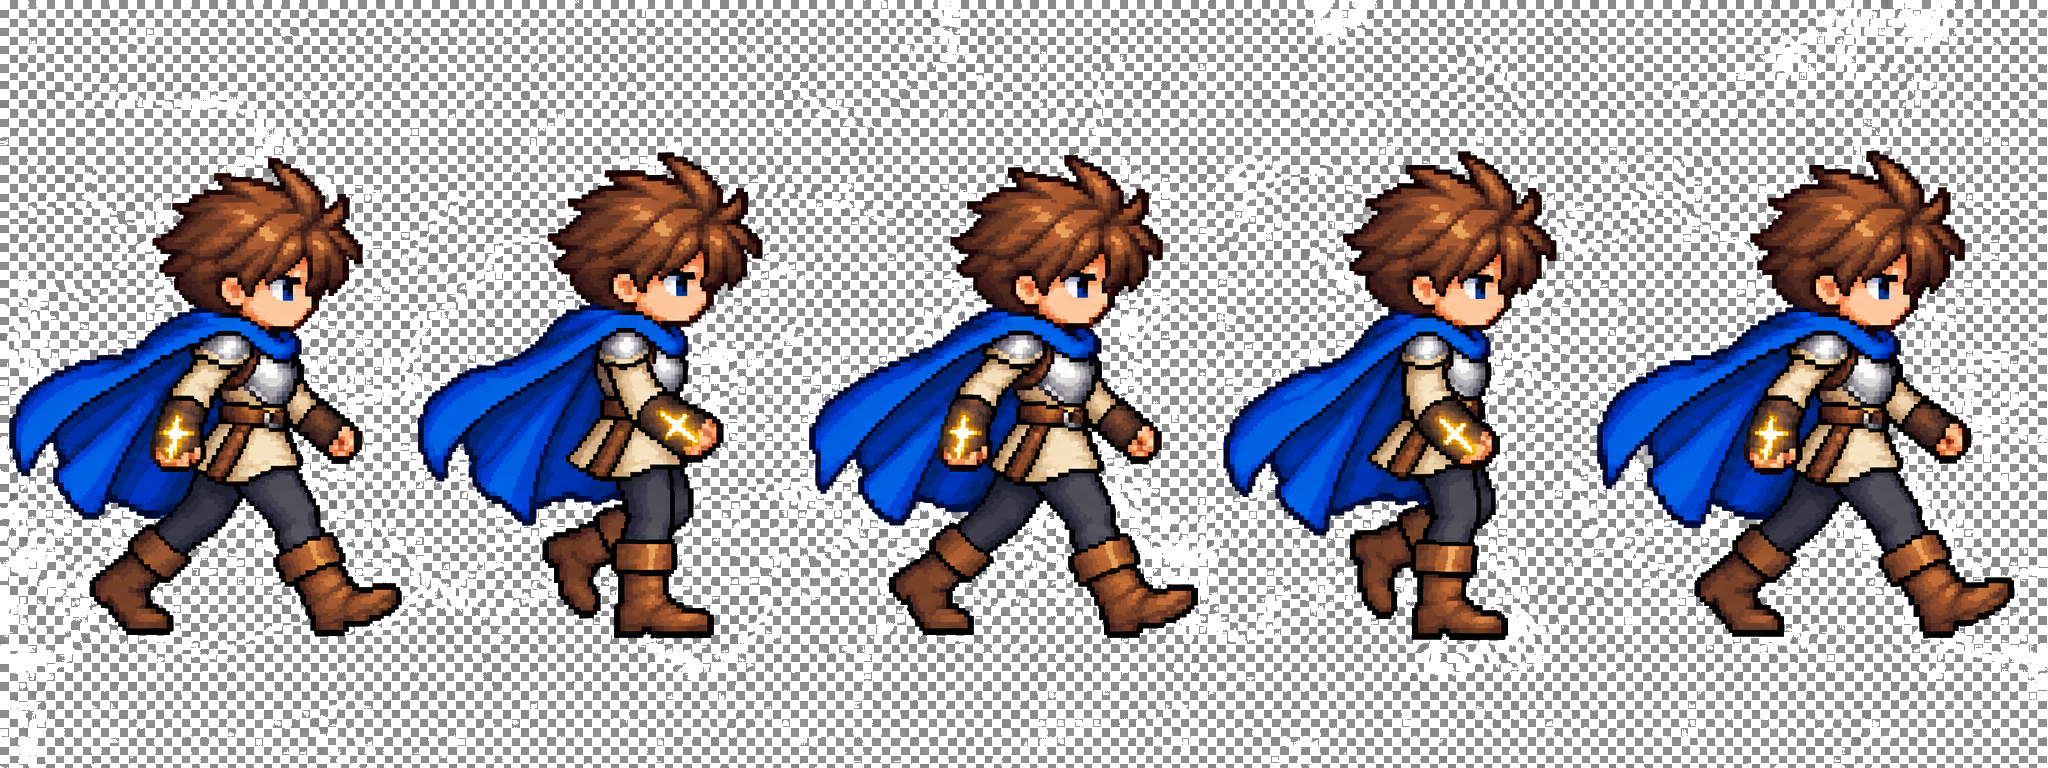
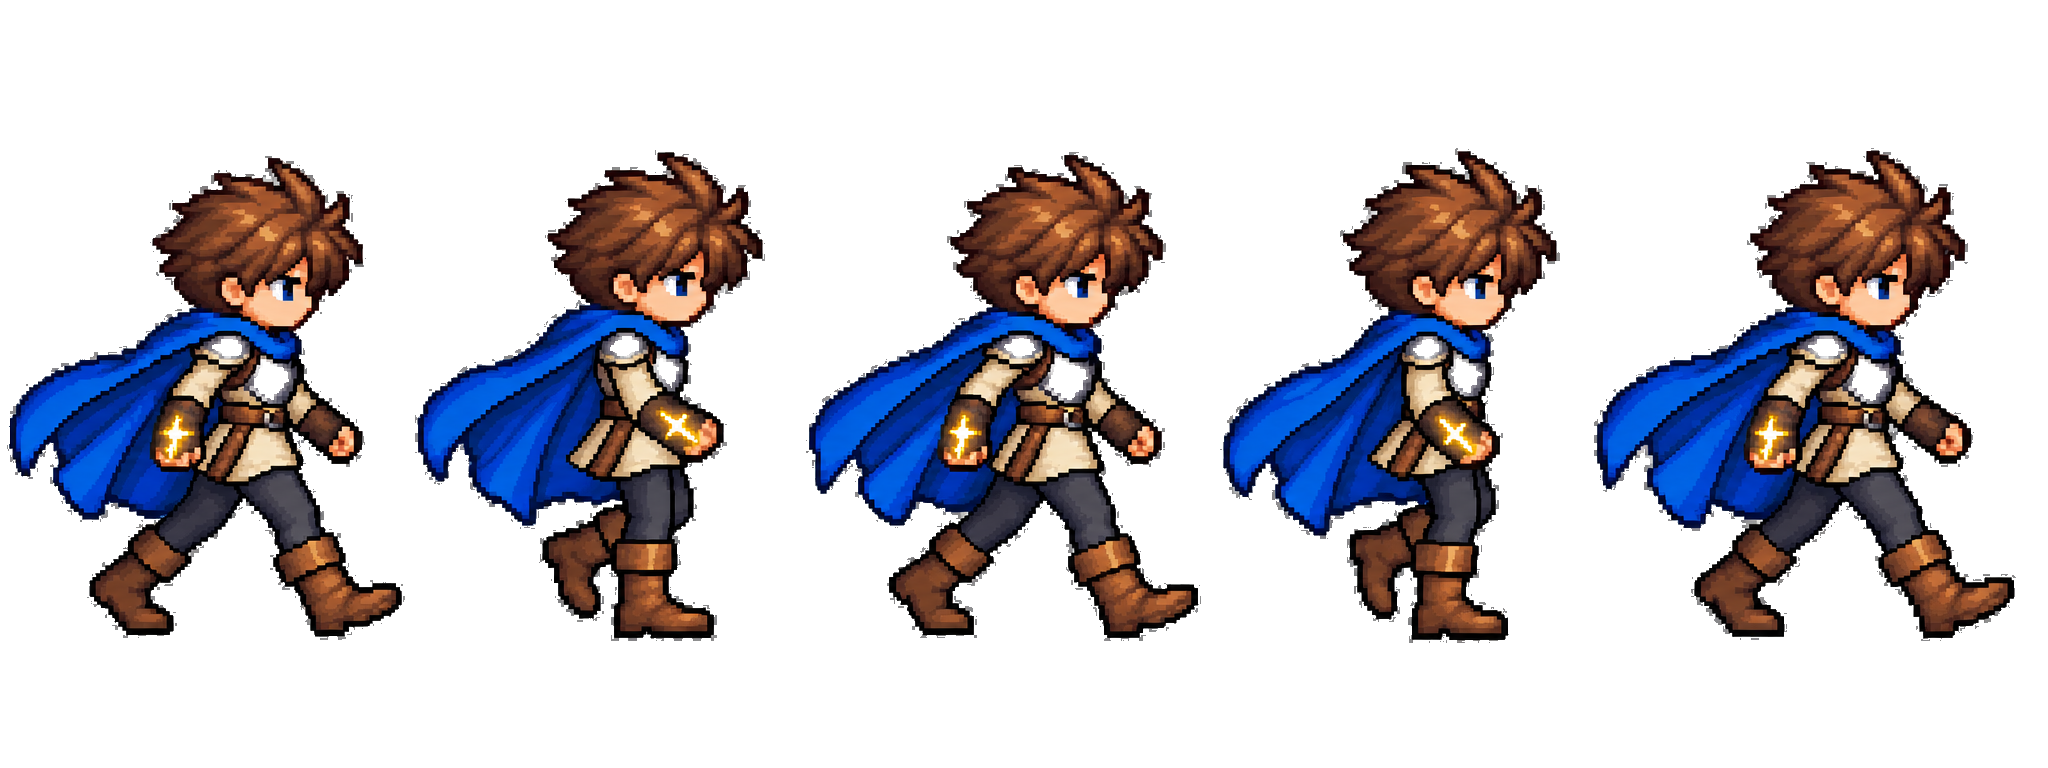
Refine walk sprite and add dash cooldown

diff --git a/game.js b/game.js
@@ -71,7 +71,7 @@
   // オーブは基礎足場のシートではなく、専用の結晶が入った素材シートから描画する。
   images.orb.src = 'assets/terrain-assets.png';
   images.sprites.src = 'assets/ren-sprites.png';
-  images.walk.src = 'assets/ren-walk-cycle-5.png?v=2';
+  images.walk.src = 'assets/ren-walk-cycle-5.png?v=3';
   images.groundDash.src = 'assets/ren-ground-dash-cycle.png?v=2';
   images.enemy.src = 'assets/corruption-wisp.png';
   images.attack.src = 'assets/ren-attack-cycle.png';
@@ -439,8 +439,8 @@
     } else if (!airAttacking && !airDashing && !groundDashing) {
       player.vx = dir * tuning.playerSpeed;
       if (dir) player.facing = dir;
-      // 移動距離に対して足運びが遅いと滑って見えるため、5コマを約18fpsで進める。
-      if (dir && player.grounded) player.walkClock += dt * 18;
+      // 5コマを見分けられるよう、歩行のコマ進行はダッシュよりゆっくりにする。
+      if (dir && player.grounded) player.walkClock += dt * 9;
     } else if (airAttacking) {
       // 空中攻撃中は入力を受けず、攻撃開始時の移動速度だけが慣性として緩やかに減衰する。
       player.vx *= Math.pow(0.06, dt);
@@ -449,7 +449,7 @@
     // 地面で一度だけ大きく踏み込み、専用の5コマ姿勢で前へ抜ける。
     if (!world.floating && input('dash') && player.grounded && player.dashCooldown <= 0 && !airAttacking) {
       const dashDirection=dir || player.facing;
-      player.facing=dashDirection; player.groundDash=.30; player.dashCooldown=.38; player.vx=dashDirection*720;
+      player.facing=dashDirection; player.groundDash=.30; player.dashCooldown=5; player.vx=dashDirection*720;
       keys.delete(bindings.dash); keys.delete('dash');
       if (FEATURES.particles) for(let i=0;i<10;i++) world.particles.push({x:player.x+player.w/2-player.facing*18,y:player.y+player.h-7,vx:-player.facing*(70+Math.random()*150),vy:-Math.random()*80,life:.28,color:'#b8f9ff'});
     }
@@ -549,7 +549,7 @@
     for (const point of repairPoints) if(!point.repaired) { ctx.save(); ctx.translate(point.x,point.y); ctx.strokeStyle='#fff39c'; ctx.lineWidth=3; ctx.shadowColor='#f6e767';ctx.shadowBlur=16;ctx.strokeRect(-15,-15,30,30);ctx.fillStyle='#fff6b6';ctx.font='bold 13px sans-serif';ctx.fillText('E 修復',-25,-25);ctx.restore(); }
     if (FEATURES.collectibles) for (const s of shards) if(!s.taken) { const pulse=FEATURES.orbPulse?1+Math.sin(performance.now()/180+s.x)*.12:1;ctx.save(); ctx.translate(s.x,s.y+Math.sin(performance.now()/230+s.x)*7);ctx.scale(pulse,pulse); ctx.shadowColor='#55eaff';ctx.shadowBlur=22; drawImagePart(images.orb,1075,515,190,230,-26,-30,52,64);ctx.restore(); }
     const spriteState = !player.grounded ? 2 : Math.abs(player.vx)>2 ? 1 : 0;
-    ctx.save(); ctx.translate(player.x+player.w/2,player.y); if(player.facing<0)ctx.scale(-1,1); if(player.attack > 0) { const elapsed=.34-player.attack; const attackFrame=elapsed<.11?0:elapsed<.23?1:2; const frames=[[18,70,590,570,-52,-6,104,101],[610,90,830,535,-67,-1,146,96],[1450,90,690,535,-53,-1,112,96]][attackFrame]; drawImagePart(images.attack,...frames); } else if(player.groundDash > 0) { const frame=Math.min(4,Math.floor((.30-player.groundDash)/.06)); const frameWidth=images.groundDash.width/5; drawImagePart(images.groundDash,frame*frameWidth,200,frameWidth,470,-52,0,104,108); } else if(spriteState===1) { const frame=Math.floor(player.walkClock)%5; const frameWidth=images.walk.width/5; drawImagePart(images.walk,frame*frameWidth,100,frameWidth,550,-45,0,90,108); } else drawImagePart(images.sprites,[60,650,1240][spriteState],145,530,730,-42,0,84,108);ctx.restore();
+    ctx.save(); ctx.translate(player.x+player.w/2,player.y); if(player.facing<0)ctx.scale(-1,1); if(player.attack > 0) { const elapsed=.34-player.attack; const attackFrame=elapsed<.11?0:elapsed<.23?1:2; const frames=[[18,70,590,570,-52,-6,104,101],[610,90,830,535,-67,-1,146,96],[1450,90,690,535,-53,-1,112,96]][attackFrame]; drawImagePart(images.attack,...frames); } else if(player.groundDash > 0) { const frame=Math.min(4,Math.floor((.30-player.groundDash)/.06)); const frameWidth=images.groundDash.width/5; drawImagePart(images.groundDash,frame*frameWidth,200,frameWidth,470,-52,0,104,108); } else if(spriteState===1) { const frame=Math.floor(player.walkClock)%5; const frameWidth=images.walk.width/5; drawImagePart(images.walk,frame*frameWidth,100,frameWidth,550,-45,-6,90,108); } else drawImagePart(images.sprites,[60,650,1240][spriteState],145,530,730,-42,0,84,108);ctx.restore();
     const pieceY = player.y - 34 + Math.sin(performance.now()/220)*7; ctx.save();ctx.translate(player.x-16,pieceY);ctx.shadowColor='#b9f8ff';ctx.shadowBlur=16;drawImagePart(images.pieceSlime,130,150,580,620,-22,-22,45,50);ctx.restore();
     const guide=currentGuide(); const guidePlatform=guide && platforms[Math.max(1,Math.floor(platforms.length*.45))];
     if(guide && guidePlatform) { const gy=guidePlatform.y-20-56+Math.sin(performance.now()/230)*6; ctx.save();ctx.translate(guidePlatform.x+guidePlatform.w/2,gy);ctx.shadowColor=guide.color;ctx.shadowBlur=20;drawImagePart(images.pieceSlime,130,150,580,620,-24,-24,48,54);ctx.globalCompositeOperation='source-atop';ctx.globalAlpha=.58;ctx.fillStyle=guide.color;ctx.fillRect(-28,-28,56,62);ctx.globalAlpha=1;ctx.globalCompositeOperation='source-over';ctx.fillStyle='#f7fbff';ctx.textAlign='center';ctx.font='bold 12px sans-serif';ctx.fillText(guide.name,0,-35);ctx.textAlign='start';ctx.restore(); }

diff --git a/index.html b/index.html
@@ -144,6 +144,6 @@
     </main>
     <script src="config.js?v=8"></script>
     <script src="stage-layouts.js?v=1"></script>
-    <script src="game.js?v=34"></script>
+    <script src="game.js?v=35"></script>
   </body>
 </html>
